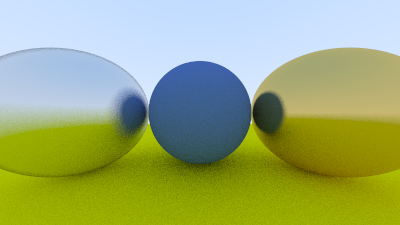
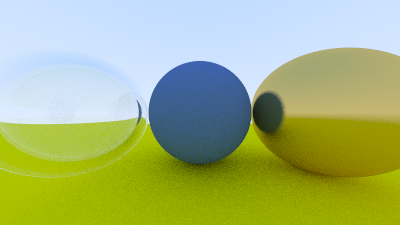
Implement dielectrics material with refraction using snell's law, fix bug on sphere hit calculation, implement reflectivity relative to angle using Schlick approximation

Changed region(s): [[0.0, 0.1867, 0.48, 0.9022]]

diff --git a/material.h b/material.h
@@ -45,4 +45,37 @@ class metal : public material {
   double fuzz;
 };
 
+class dielectric : public material {
+ public:
+  dielectric(double refraction_index) : refraction_index(refraction_index) {}
+
+  bool scatter(const ray& r_in, const hit_record& rec, color& attenuation, ray& scattered) const override {
+    attenuation = color(1.0, 1.0, 1.0);
+    double ri = rec.front_face ? (1.0/refraction_index) : refraction_index;
+
+    vec3 unit_direction = unit_vector(r_in.direction());
+    double cos_theta = std::fmin(dot(-unit_direction, rec.normal), 1.0);
+    double sin_theta = std::sqrt(1.0 - cos_theta*cos_theta);
+
+    bool cannot_refract = ri * sin_theta > 1.0;
+    vec3 direction;
+
+    if (cannot_refract || reflectance(cos_theta, ri) > random_double()) direction = reflect(unit_direction, rec.normal);
+    else direction = refract(unit_direction, rec.normal, ri);
+
+    scattered = ray(rec.p, direction);
+    return true;
+  }
+
+ private:
+  double refraction_index;
+
+  static double reflectance(double cosine, double refraction_index) {
+    //Schlick's approximation for reflectance
+    auto r0 = (1-refraction_index) / (1+refraction_index);
+    r0 = r0*r0;
+    return r0 + (1-r0)*std::pow((1-cosine),5);
+  }
+};
+
 #endif

diff --git a/main.cpp b/main.cpp
@@ -11,12 +11,14 @@ int main() {
 
   auto material_ground = make_shared<lambertian>(color(0.8, 0.8, 0.0));
   auto material_center = make_shared<lambertian>(color(0.1, 0.2, 0.5));
-  auto material_left = make_shared<metal>(color(0.8,0.8,0.8), 0.3);
+  auto material_left = make_shared<dielectric>(1.50);
+  auto material_bubble = make_shared<dielectric>(1.00/1.50);
   auto material_right = make_shared<metal>(color(0.8,0.6,0.2), 0.1);
 
   world.add(make_shared<sphere>(point3(0.0, -100.5, -1.0), 100.0, material_ground));
   world.add(make_shared<sphere>(point3(0.0, 0.0, -1.2), 0.5, material_center));
   world.add(make_shared<sphere>(point3(-1.0, 0.0, -1.0), 0.5, material_left));
+  world.add(make_shared<sphere>(point3(-1.0, 0.0, -1.0), 0.4, material_bubble));
   world.add(make_shared<sphere>(point3(1.0, 0.0, -1.0), 0.5, material_right));
 
   // Render

diff --git a/vec3.h b/vec3.h
@@ -120,4 +120,11 @@ inline vec3 reflect(const vec3& v, const vec3& n) {
   return v - 2*dot(v,n)*n;
 }
 
+inline vec3 refract(const vec3& uv, const vec3& n, double etai_over_etat) {
+  auto cos_theta = std::fmin(dot(-uv, n), 1.0);
+  vec3 r_out_perp = etai_over_etat * (uv + cos_theta*n);
+  vec3 r_out_parallel = -std::sqrt(std::fabs(1.0 - r_out_perp.length_squared())) * n;
+  return r_out_perp + r_out_parallel;
+}
+
 #endif

diff --git a/sphere.h b/sphere.h
@@ -30,7 +30,8 @@ class sphere : public hittable {
 
     rec.t = root;
     rec.p = r.at(rec.t);
-    rec.normal = (rec.p - center) / radius;
+    vec3 outward_normal = (rec.p - center) / radius;
+    rec.set_face_normal(r, outward_normal);
     rec.mat = mat;
 
     return true;
